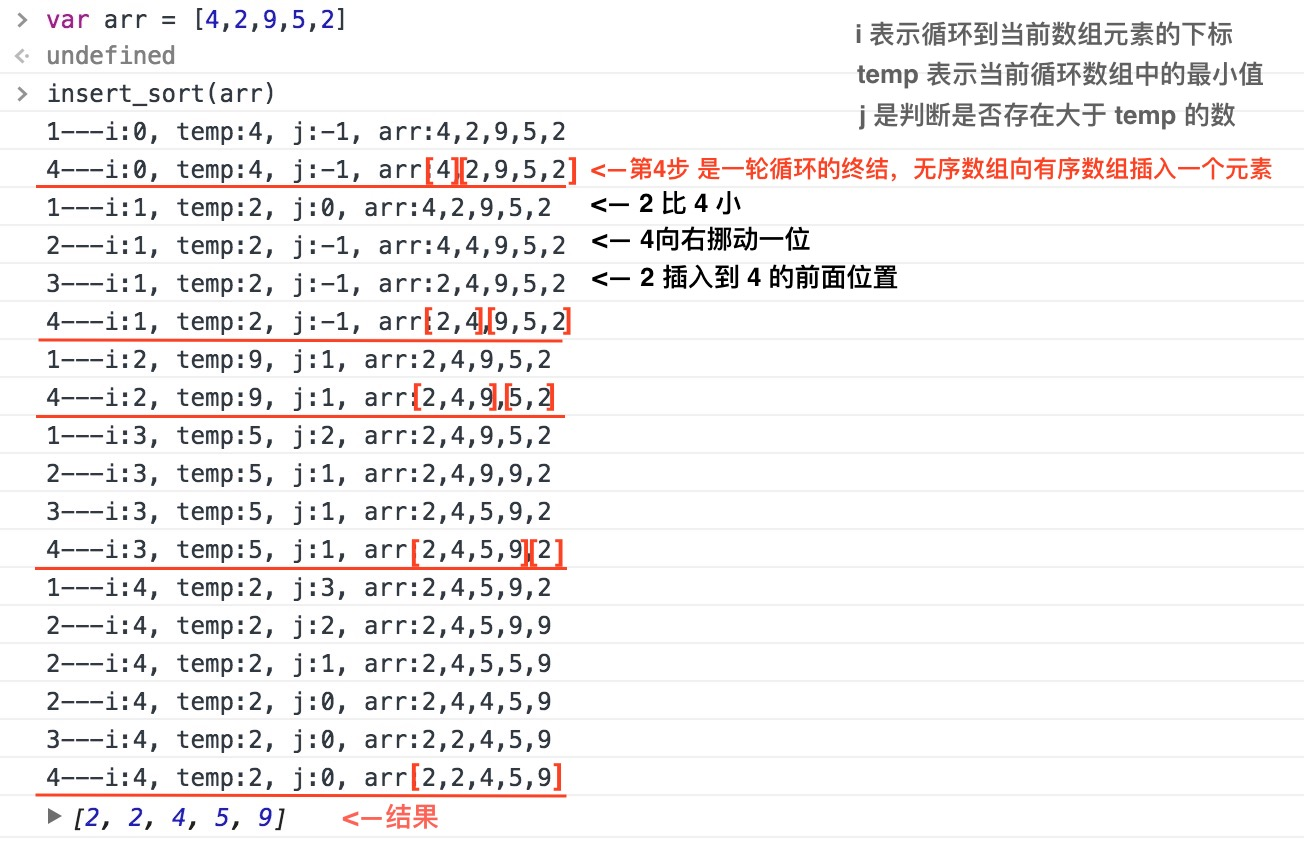
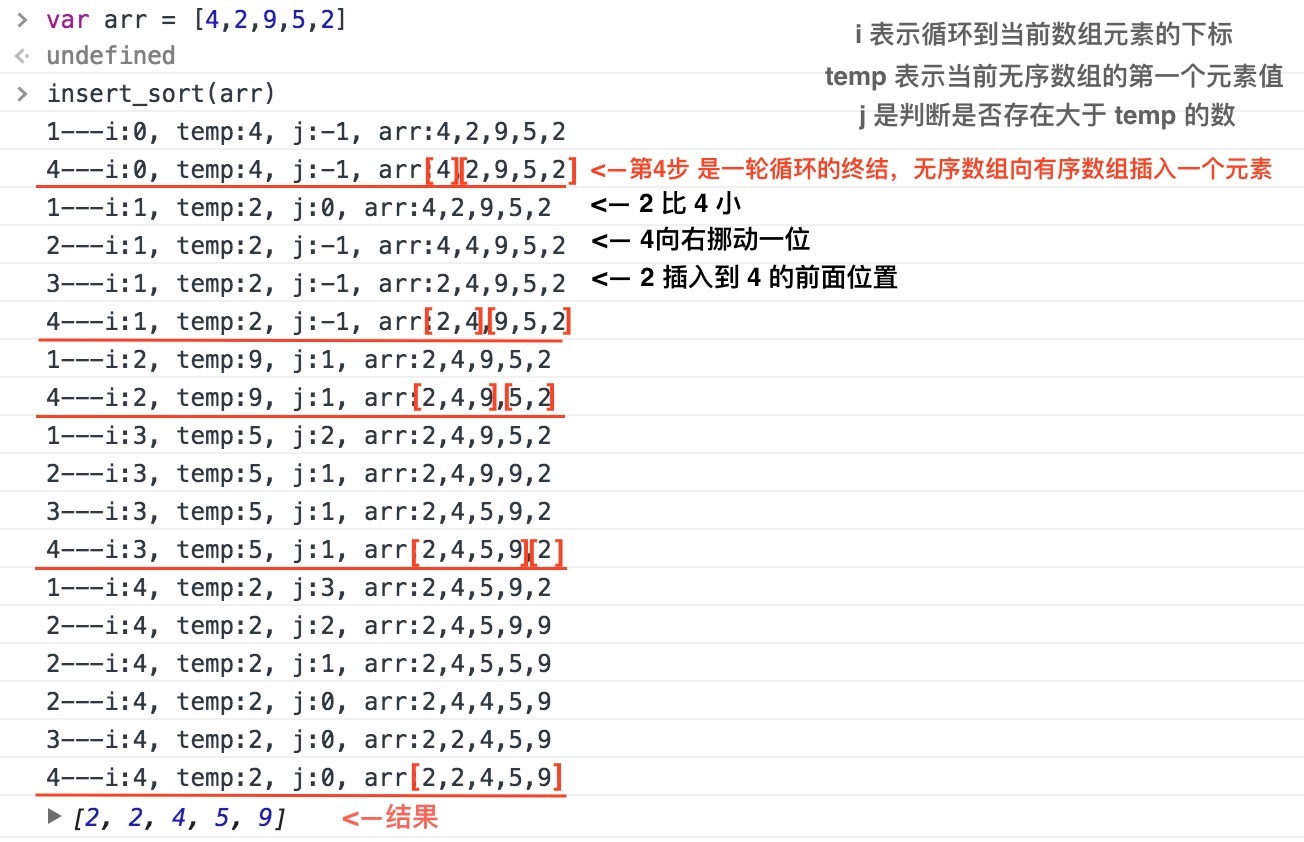
Site updated: 2016-11-29 12:27:10

Changed region(s): [[0.6442, 0.0618, 0.9816, 0.1235]]

diff --git a/2016/11/28/排序算法之插入排序/index.html b/2016/11/28/排序算法之插入排序/index.html
@@ -13,7 +13,7 @@
 <meta property="og:description" content="插入排序同样是排序算法，它和上一篇所说的”选择排序”到底有什么区别呢？又该在什么情况下使用插入排序呢？带着疑问开始学习，在学习中尝试解答，我觉得这是一个好的学习方法。(^-^)">
 <meta property="og:image" content="http://lemon23.me/images/排序算法之插入排序/code-example.png">
 <meta property="og:image" content="http://lemon23.me/images/排序算法之插入排序/example1.jpeg">
-<meta property="og:updated_time" content="2016-11-29T03:59:25.000Z">
+<meta property="og:updated_time" content="2016-11-29T04:26:56.000Z">
 <meta name="twitter:card" content="summary">
 <meta name="twitter:title" content="排序算法之插入排序">
 <meta name="twitter:description" content="插入排序同样是排序算法，它和上一篇所说的”选择排序”到底有什么区别呢？又该在什么情况下使用插入排序呢？带着疑问开始学习，在学习中尝试解答，我觉得这是一个好的学习方法。(^-^)">
@@ -283,8 +283,7 @@
 <h1 id="算法实现"><a href="#算法实现" class="headerlink" title="算法实现"></a>算法实现</h1><h2 id="js代码"><a href="#js代码" class="headerlink" title="js代码"></a>js代码</h2><figure class="highlight js"><figcaption><span>example.js</span></figcaption><table><tr><td class="gutter"><pre><div class="line">1</div><div class="line">2</div><div class="line">3</div><div class="line">4</div><div class="line">5</div><div class="line">6</div><div class="line">7</div><div class="line">8</div><div class="line">9</div><div class="line">10</div><div class="line">11</div><div class="line">12</div><div class="line">13</div><div class="line">14</div></pre></td><td class="code"><pre><div class="line"><span class="function"><span class="keyword">function</span> <span class="title">insert_sort</span>(<span class="params">arr</span>) </span>&#123;</div><div class="line">  <span class="keyword">var</span> temp, i, j;</div><div class="line">  <span class="keyword">for</span> (i = <span class="number">0</span>; i &lt; arr.length; i++)&#123;</div><div class="line">    temp = arr[i];</div><div class="line">    j = i - <span class="number">1</span>;</div><div class="line">    <span class="keyword">while</span>((j &gt;= <span class="number">0</span>) &amp;&amp; (arr[j] &gt; temp)) &#123;</div><div class="line">      arr[j+<span class="number">1</span>] = arr[j];</div><div class="line">      j--;</div><div class="line">    &#125;;</div><div class="line">    <span class="keyword">if</span> (j != i<span class="number">-1</span>) &#123;</div><div class="line">      arr[j+<span class="number">1</span>] = temp;</div><div class="line">    &#125;;</div><div class="line">  &#125;;</div><div class="line">&#125;;</div></pre></td></tr></table></figure>
 <h2 id="分析"><a href="#分析" class="headerlink" title="分析"></a>分析</h2><p>我给<code>insert_sort()</code>函数增加几行 console 打印出在循环内各个参数值和数组的变化，这样可以更直观的了解到函数是如何一步步给数组排序的。<br><img src="/images/排序算法之插入排序/code-example.png" alt="添加console语句后的insert_sort()函数"></p>
 <p>接着来看一下函数到底打印的结果：<br><img src="/images/排序算法之插入排序/example1.jpeg" alt="打印循环中的各个数组参数和结果"></p>
-<p>其实图中 temp 参数的说明并不准确，应该是 temp 表示无序数组的第一元素的值。</p>
-<p>我来一步步的说明<code>insert_sort()</code>函数的排序过程，当中究竟发生了什么：</p>
+<p>我来一步步的解析<code>insert_sort()</code>函数的排序过程，当中究竟发生了什么：</p>
 <p>我给出了数组<code>arr=[4,2,9,5,2]</code>，共 5 个元素的数组，所以总的外循环次数也应为 5 次。对于 0 到 N-1 之间的每个 i ，将 a[i] 与 a[0] 到 a[i-1]中比它小的所有元素依次有序地交换，i 左侧的元素总是有序的。</p>
 <p><strong>第一轮循环</strong> 我们对照着上面的函数来看，进入for循环时，<code>i = 0，temp = 4，j = -1</code>；<br>然后到达while循环处进行判断：-1 &gt;= 0 就已经不成立了，所以直接跳过while循环；<br>接下来到达if判断处：-1 != -1 也不成立，跳过if直接输出 “4—“。<br>这一步的作用就是把数组第一个元素插入到有序数组中，因为刚开始插入，有序数组并没有值，所以直接把无序数组第一元素插入就好，并不用判断大小。<br>至此，数组为：<code>[4,2,9,5,2]</code></p>
 <p><strong>第二轮循环</strong> 此时，<code>i = 1，temp = 2，j = 0</code>；<br>到达while循环判断：0 &gt;= 0 和 4 &gt; 2 成立，进入while循环执行：<code>2 = 4, j = -1</code>，到此 j 已经不符合while循环的判断，所以不再继续循环；<br>然后是if判断：-1 != 0 成立，执行：<code>4 = 2</code>；<br>结束，输出 “4—“，这一步把无序数组的第一个元素 2 与 有序数组的最后一个元素 4 作比较，2 &lt; 4 ，所以在内循环中把 4 向右移动一位，又在if中把 2 插入到有序数组的第一位置。<br>至此， 数组为：<code>[2,4,9,5,2]</code></p>
@@ -328,7 +327,7 @@
 
 </div>
 
-    <a data-url="http://lemon23.me/2016/11/28/排序算法之插入排序/" data-id="ciw2zieat0005he0e6s8iq0vc" class="article-share-link"><i class="fa fa-share"></i>分享到</a>
+    <a data-url="http://lemon23.me/2016/11/28/排序算法之插入排序/" data-id="ciw3052b00005770e34ggf8ta" class="article-share-link"><i class="fa fa-share"></i>分享到</a>
 <style>
     .article-share-links :nth-child(4),
     .article-share-links :nth-child(5),

diff --git a/index.html b/index.html
@@ -249,7 +249,7 @@
 
 </div>
 
-    <a data-url="http://lemon23.me/2016/11/28/排序算法之插入排序/" data-id="ciw2zieat0005he0e6s8iq0vc" class="article-share-link"><i class="fa fa-share"></i>分享到</a>
+    <a data-url="http://lemon23.me/2016/11/28/排序算法之插入排序/" data-id="ciw3052b00005770e34ggf8ta" class="article-share-link"><i class="fa fa-share"></i>分享到</a>
 <style>
     .article-share-links :nth-child(4),
     .article-share-links :nth-child(5),
@@ -408,7 +408,7 @@
 
 </div>
 
-    <a data-url="http://lemon23.me/2016/11/25/排序算法之选择排序/" data-id="ciw2zieau0006he0eo5ba0s27" class="article-share-link"><i class="fa fa-share"></i>分享到</a>
+    <a data-url="http://lemon23.me/2016/11/25/排序算法之选择排序/" data-id="ciw3052b20006770e1io1jc06" class="article-share-link"><i class="fa fa-share"></i>分享到</a>
 <style>
     .article-share-links :nth-child(4),
     .article-share-links :nth-child(5),
@@ -577,7 +577,7 @@
 
 </div>
 
-    <a data-url="http://lemon23.me/2016/11/02/Soft-Cat/" data-id="ciw2zieae0000he0enqjeii3g" class="article-share-link"><i class="fa fa-share"></i>分享到</a>
+    <a data-url="http://lemon23.me/2016/11/02/Soft-Cat/" data-id="ciw3052ap0001770e8zb6zye8" class="article-share-link"><i class="fa fa-share"></i>分享到</a>
 <style>
     .article-share-links :nth-child(4),
     .article-share-links :nth-child(5),
@@ -746,7 +746,7 @@
 
 </div>
 
-    <a data-url="http://lemon23.me/2016/10/26/Vue关于data数据的深度响应原理/" data-id="ciw2ziear0004he0es1c75bpu" class="article-share-link"><i class="fa fa-share"></i>分享到</a>
+    <a data-url="http://lemon23.me/2016/10/26/Vue关于data数据的深度响应原理/" data-id="ciw3052ax0004770eb6ozexe1" class="article-share-link"><i class="fa fa-share"></i>分享到</a>
 <style>
     .article-share-links :nth-child(4),
     .article-share-links :nth-child(5),
@@ -915,7 +915,7 @@
 
 </div>
 
-    <a data-url="http://lemon23.me/2016/10/21/Hexo的过坑记/" data-id="ciw2zieak0001he0ewumdmjv2" class="article-share-link"><i class="fa fa-share"></i>分享到</a>
+    <a data-url="http://lemon23.me/2016/10/21/Hexo的过坑记/" data-id="ciw3052ak0000770e8zupgq3h" class="article-share-link"><i class="fa fa-share"></i>分享到</a>
 <style>
     .article-share-links :nth-child(4),
     .article-share-links :nth-child(5),

diff --git a/2016/10/26/Vue关于data数据的深度响应原理/index.html b/2016/10/26/Vue关于data数据的深度响应原理/index.html
@@ -342,7 +342,7 @@
 
 </div>
 
-    <a data-url="http://lemon23.me/2016/10/26/Vue关于data数据的深度响应原理/" data-id="ciw2ziear0004he0es1c75bpu" class="article-share-link"><i class="fa fa-share"></i>分享到</a>
+    <a data-url="http://lemon23.me/2016/10/26/Vue关于data数据的深度响应原理/" data-id="ciw3052ax0004770eb6ozexe1" class="article-share-link"><i class="fa fa-share"></i>分享到</a>
 <style>
     .article-share-links :nth-child(4),
     .article-share-links :nth-child(5),

diff --git a/2016/11/25/排序算法之选择排序/index.html b/2016/11/25/排序算法之选择排序/index.html
@@ -328,7 +328,7 @@
 
 </div>
 
-    <a data-url="http://lemon23.me/2016/11/25/排序算法之选择排序/" data-id="ciw2zieau0006he0eo5ba0s27" class="article-share-link"><i class="fa fa-share"></i>分享到</a>
+    <a data-url="http://lemon23.me/2016/11/25/排序算法之选择排序/" data-id="ciw3052b20006770e1io1jc06" class="article-share-link"><i class="fa fa-share"></i>分享到</a>
 <style>
     .article-share-links :nth-child(4),
     .article-share-links :nth-child(5),

diff --git a/2016/10/21/Hexo的过坑记/index.html b/2016/10/21/Hexo的过坑记/index.html
@@ -446,7 +446,7 @@
 
 </div>
 
-    <a data-url="http://lemon23.me/2016/10/21/Hexo的过坑记/" data-id="ciw2zieak0001he0ewumdmjv2" class="article-share-link"><i class="fa fa-share"></i>分享到</a>
+    <a data-url="http://lemon23.me/2016/10/21/Hexo的过坑记/" data-id="ciw3052ak0000770e8zupgq3h" class="article-share-link"><i class="fa fa-share"></i>分享到</a>
 <style>
     .article-share-links :nth-child(4),
     .article-share-links :nth-child(5),

diff --git a/2016/11/02/Soft-Cat/index.html b/2016/11/02/Soft-Cat/index.html
@@ -316,7 +316,7 @@
 
 </div>
 
-    <a data-url="http://lemon23.me/2016/11/02/Soft-Cat/" data-id="ciw2zieae0000he0enqjeii3g" class="article-share-link"><i class="fa fa-share"></i>分享到</a>
+    <a data-url="http://lemon23.me/2016/11/02/Soft-Cat/" data-id="ciw3052ap0001770e8zb6zye8" class="article-share-link"><i class="fa fa-share"></i>分享到</a>
 <style>
     .article-share-links :nth-child(4),
     .article-share-links :nth-child(5),

diff --git a/css/style.css b/css/style.css
@@ -1953,7 +1953,6 @@ ol.toc {
   line-height: 2.3em;
 }
 .tagcloud a {
-  font-size: 14px;
   margin-right: 5px;
   padding: 0.1em 0.5em;
   border: 1px solid #888;
